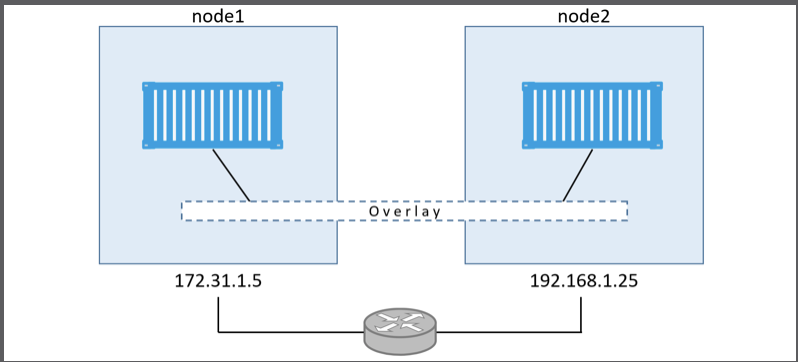
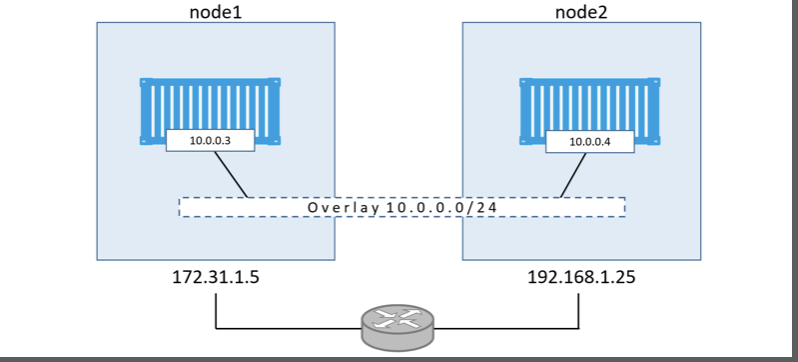
vxlan

Changed region(s): [[0.0, 0.0, 1.0, 1.0], [0.6316, 0.2127, 0.8421, 0.4862]]

diff --git a/2018/network/theory/network-theory.md b/2018/network/theory/network-theory.md
@@ -1,5 +1,10 @@
 # Network Theory
 
+## Network Communication
+
+* [Multicast](https://en.wikipedia.org/wiki/Multicast)
+* [Unicast](https://en.wikipedia.org/wiki/Unicast)
+
 ## Concepts
 
 ### Subset Mask
@@ -29,6 +34,7 @@ The default gateway is used as the destination of all traffic that is not on the
 
 The default gateway always resides in the same subnet as the end device IP. The gateway can really be any unique address within the subnet itself, but most network administrators designate the first number of the subnet as the gateway. Therefore, 192.168.99.1 would be the default gateway of our source device given the fact that we have a 255.255.255.0 subnet mask.
 
-##  Reference
+## Reference
 
 * [IPAddress,Subnet Mask,Default Gaetway](https://www.networkcomputing.com/network-security/ip-addresses-subnet-masks-and-default-gateways/1835691346)
+* [OSI Model](https://en.wikipedia.org/wiki/OSI_model)

diff --git a/2018/tool/docker/docker.md b/2018/tool/docker/docker.md
@@ -357,6 +357,9 @@ Docker ships with serveral built-in drivers, known as native drivers or local dr
 * It allows you to create a flat,secure,layer-2 network, spanning multiple hosts. Cotainers connect to this and can communicate directly.
 * Linux should have at least a 4.4 Linux kernel and Windows should be Windows Serer 2016 with the latest hotfixes installed.
 * allow ports 2377/tcp, 7949/tcp and 7946/udp with Swarm orchestration.
+* Docker overlay networking uses VXLAN tunnels to create virtual Layer 2 overlay networks.
+* Each end of the VXLAN tunnel is terminated by a VXLAN Tunnel Endpoint(VTEP) which performs the encapsulation/de-encapsulation
+* ![VXLAN VTEP](img/docker-overlay-vxlan-vtep.png)
 
 #### Connecting to existing networks
 

diff --git a/2018/code/docker/docker-command.md b/2018/code/docker/docker-command.md
@@ -194,6 +194,10 @@
    docker network inspect <network-name>
    docker network inspect <network-name> --format '{{json.Containers}}'
 
+   # get the container's IP address
+   docker container ls
+   docker contaienr inspect --format= '{{range .NetworkSettings.Networks}}{ {.IPAddress}}{{end}}' <container-id>
+
    # create a new single-host bridge network called 'localnet'
    # by default, it creates them with nat drier on windows, and the bridge drier on Linux.
    docker network create -d bridge <network-name> # -d flag: specify the type of network (network driver)

diff --git a/2018/code/network/network-command.md b/2018/code/network/network-command.md
@@ -1,8 +1,12 @@
 # Network Command
 
 ```bash
-
+#! /bin/bash
    # traceroute www.docker.com
-   # ping www.docker.com  add ip addcress to /etc/hosts
-   
+   traceroute <ipaddress | domainname>
+```
+
+```cmd
+# trace ip
+tracert <ipaddress>
 ```

diff --git a/2018/network/communication-protocol/communication-protocol.md b/2018/network/communication-protocol/communication-protocol.md
@@ -3,4 +3,3 @@
 * [SSH](ssh/ssh.md)
 * [gRPC](grpc/grpc.md)
 * [Internet Control Message Protocol - ICMP](https://en.wikipedia.org/wiki/Internet_Control_Message_Protocol)
-

diff --git a/2018/network/network-virtualization/network-virtualization.md b/2018/network/network-virtualization/network-virtualization.md
@@ -1,0 +1,6 @@
+# Network Virtualization Overview
+
+* [Virtual Extensible LAN](https://en.wikipedia.org/wiki/Virtual_Extensible_LAN)
+
+## Reference
+
